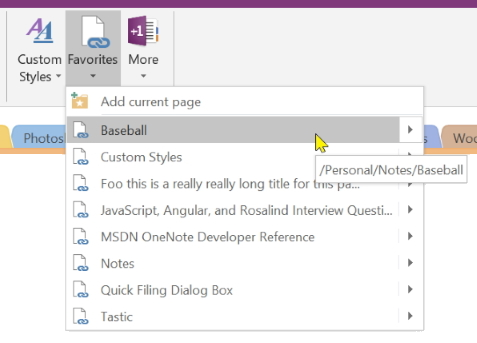
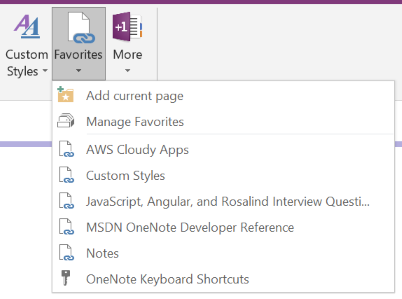
favorites updates

diff --git a/Settings.md b/Settings.md
@@ -7,6 +7,19 @@ Note that if you choose one of the "menu" options such as "Edit Menu" then that 
 
 > ![Context Menu Options](images/ContextMenuSheet.png)
 
+## Favorites Manager
+Use the table to reorder, sort, or delete favorites.
+
+The _Include reference to keyboard shortcuts page_ checkbox is used to add or remove a special link to the Favorites menu that displays a page listing the OneMore and built-in OneNote keyboard shorts - see below.
+
+> ![Favorites Manager](images/FavoritesSheet.png)
+
+The first time the keyboard shortcuts Favorite is clicked, OneMore will download and import and keyboard shortcuts reference page under the current section and navigate to that page. It may take a couple of seconds to appear.
+
+Subsequent clicks will simply navigate to that page again.
+
+This page can be moved to any open section or notebook and OneMore will still find it. If the page is deleted, clicking the Favorite link will download it again.
+
 ## Rotating Highlighter Options
 The rotating highlighter uses an array of colors to highlight selected text. Each time you select text and use this command, it will highlight the selected text using the next color in the array. The highlighter options let you choose which color theme to use
 

diff --git a/Favorites.md b/Favorites.md
@@ -9,3 +9,11 @@ Adds the current page to the end of the favorites menu.
 ### Manage Favorites
 Opens the Settings dialog and shows the Favorites Manager sheet
 
+### OneNote Keyboard Shortcuts
+This is a special link that can be enabled in the Favorites Manager.
+
+The first time this link is clicked, OneMore will download an import and keyboard shortcuts reference page under the current section and show that page. It may take a couple of seconds to appear.
+
+Subsequent clicks will simply show that page again. 
+
+This page can be moved to any open notebook or section and OneMore will still find it. If the page is deleted, clicking the Favorite link will download it again.
